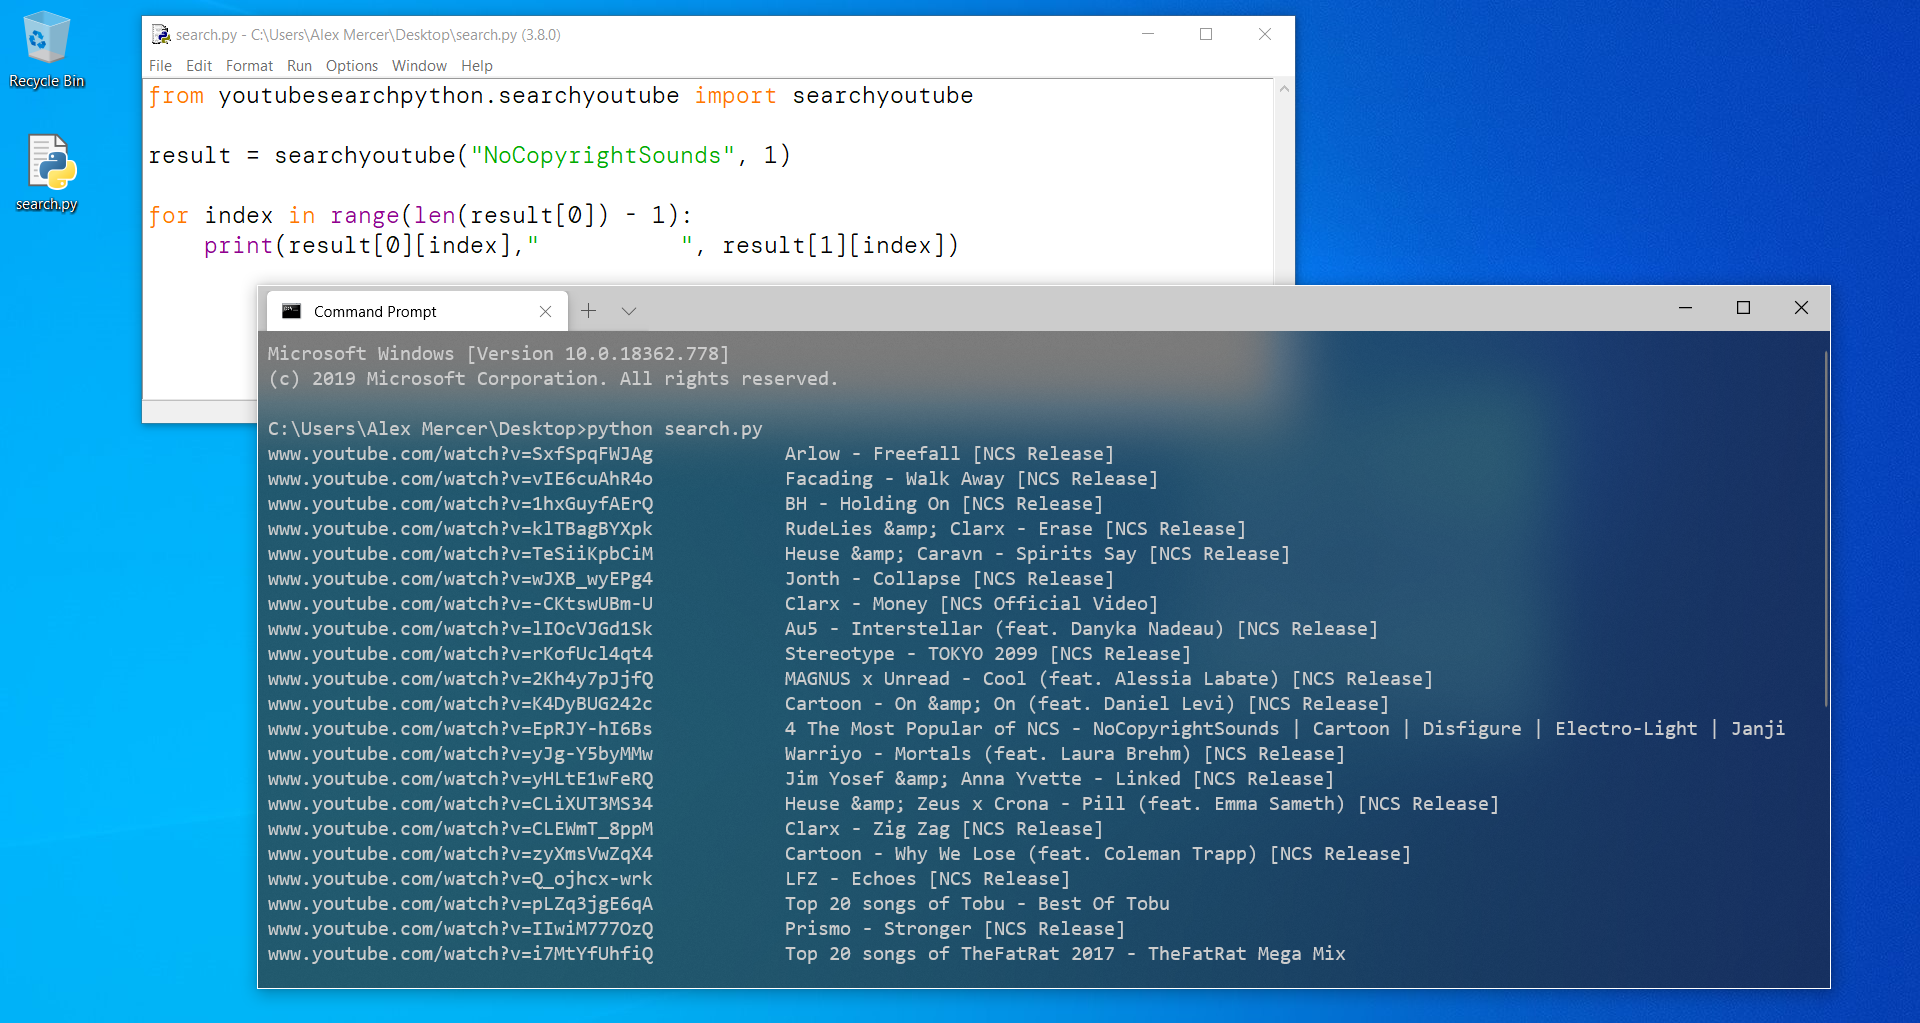
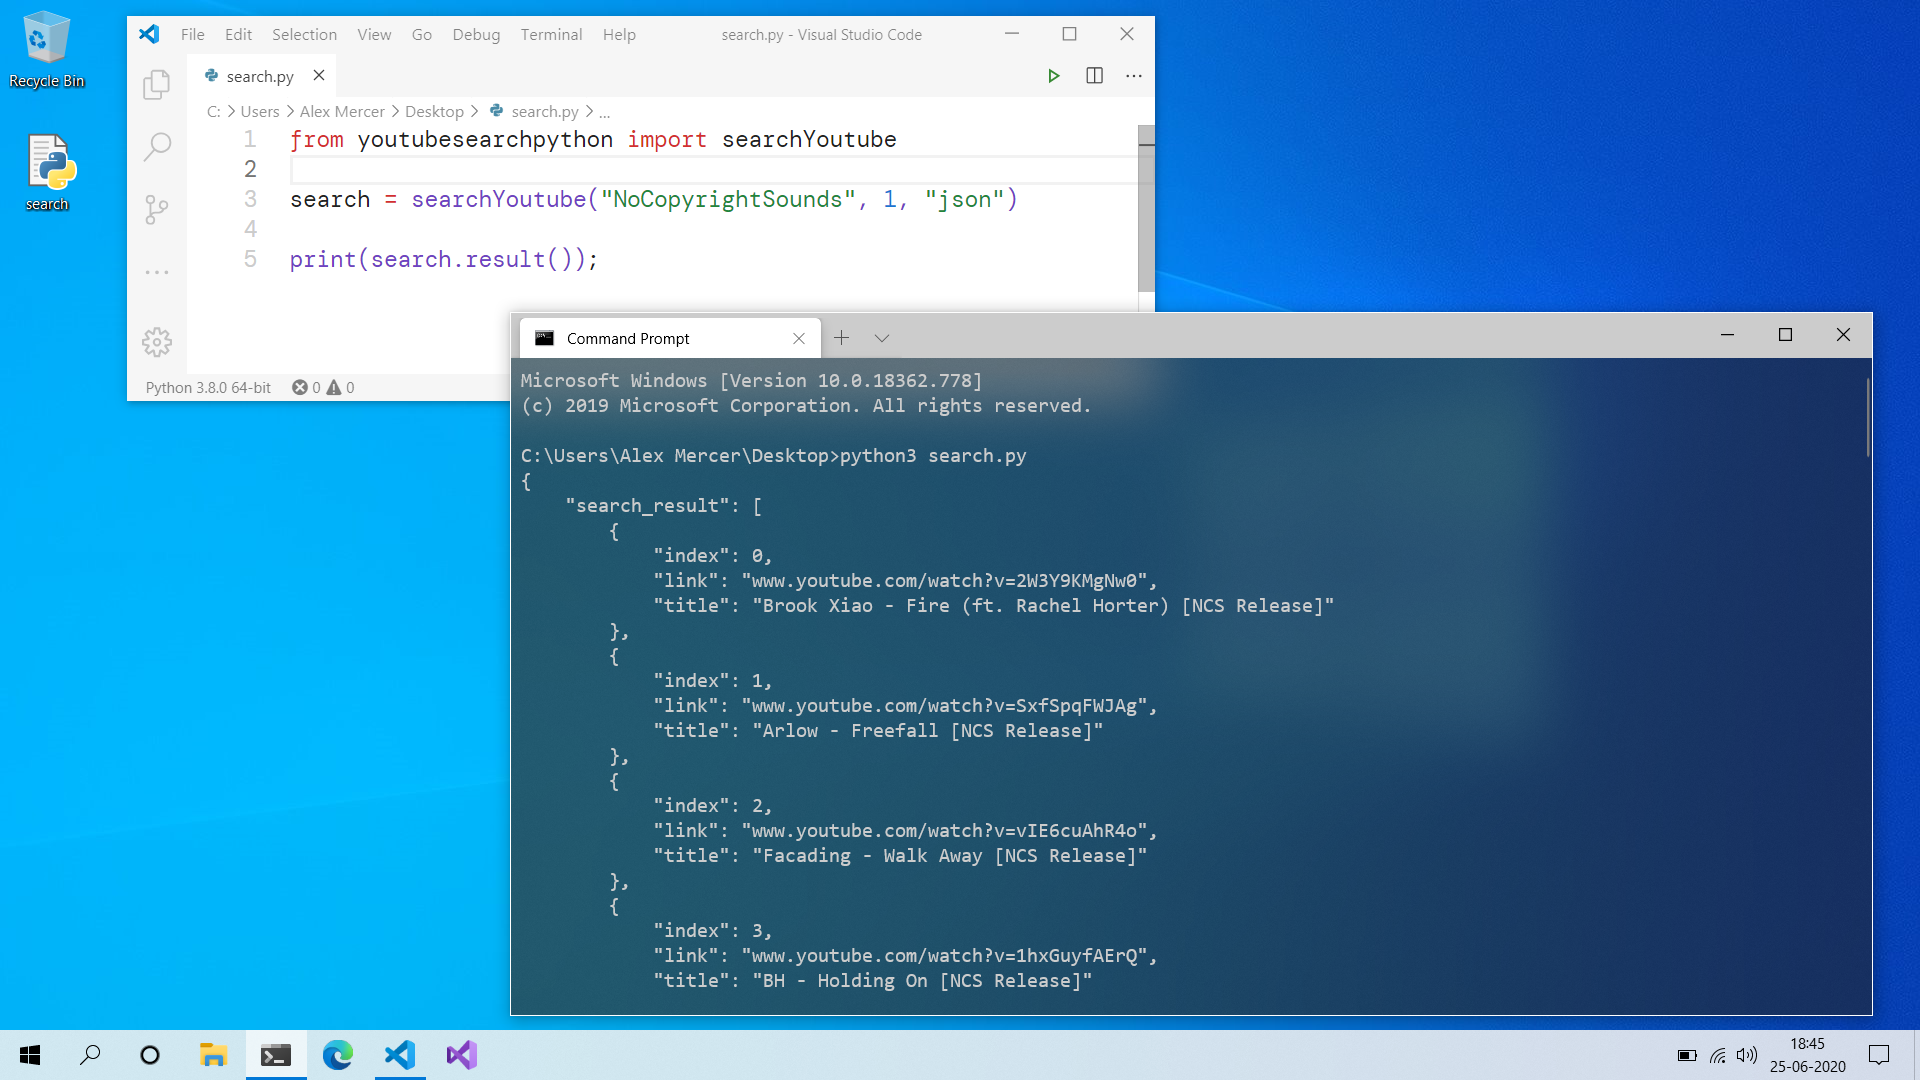
Fixed encoding, added decoding html entities, Added JSON result

diff --git a/youtubesearchpython/__init__.py b/youtubesearchpython/__init__.py
@@ -1,1 +1,86 @@
-#########https://github.com/alexmercerind#########
+import urllib.parse
+import urllib.request
+import json
+import html
+
+
+class searchYoutube:
+
+    #########https://github.com/alexmercerind#########
+
+    networkError = False
+
+    def __init__(self, keyword, offset = 1, mode = "json"):
+
+        self.keyword = keyword
+        self.offset = offset
+        self.mode = mode
+
+        self.exec()
+
+    def main(self):
+        try:
+            request = "https://www.youtube.com/results?search_query=%s&disable_polymer=1&page=%d" %(urllib.parse.quote(self.keyword), self.offset)
+            
+            page = urllib.request.urlopen(request).read().decode('utf-8')
+            page_source = page.split()
+
+            temp = 0
+
+            self.links = []
+            self.titles = []
+
+            for index in range(0, len(page_source)-1, 1):
+                element = page_source[index]
+                element_next = page_source[index+1]
+
+                if element[0:15] == 'href="/watch?v=' and len('www.youtube.com'+element[6:len(element)-1]) == 35:
+                    temp+=1
+                    if temp%2 ==0:
+                        self.links+=['www.youtube.com'+element[6:len(element)-1]]
+
+                if (element[0:23] == 'data-sessionlink="itct=') and (element_next[0:7] == 'title="'):
+                    buffer = ""
+                    init = page_source[index+1]
+                    buffer+=init
+                    sub_index = index+2
+                    end = index+22
+                    while sub_index<end:
+                        this_element = page_source[sub_index]
+                        next_element = page_source[sub_index+1]
+                        if (this_element[len(this_element)-1])== '"':
+                            if next_element == 'rel="spf-prefetch"':
+                                buffer+=(" "+this_element)
+                                self.titles.append(html.unescape(buffer[7:-1]))
+                                break
+                        else:
+                            buffer+=(" "+this_element)
+                        sub_index+=1
+
+        except:
+
+            self.networkError = True
+
+    def exec(self):
+        self.main()
+        if self.networkError:
+            self.networkError = True
+        else:
+            if len(self.links) == 0:
+                self.exec()
+
+    def result(self):
+        if self.networkError:
+            return None
+        else:
+            result = []
+            if self.mode == "json":
+                for index in range(len(self.links) - 1):
+                    thisResult = {"index": index, "link": self.links[index], "title": self.titles[index]}
+                    result+=[thisResult]
+                return json.dumps({"search_result": result}, indent=4)
+            elif self.mode == "list":
+                for index in range(len(self.links) - 1):
+                    thisResult=[index, self.links[index], self.titles[index]]
+                    result+=[thisResult]
+                return result

diff --git a/setup.py b/setup.py
@@ -5,7 +5,7 @@ with open("README.md", "r") as fh:
 
 setuptools.setup(
     name="youtube-search-python",
-    version="0.0.1",
+    version="0.0.2",
     author="Hitesh Kumar Saini",
     author_email="saini123hitesh@gmail.com",
     description="A python script to return video links and titles by searching in YouTube without Youtube Data API v3.",

diff --git a/README.md b/README.md
@@ -1,15 +1,10 @@
 # youtube-search-python
 
 
-**Return video links and titles by searching in YouTube without using YouTube Data API v3.**
+**Search videos in YouTube without using YouTube Data API v3.**
 
 
 (Made from scratch without using YouTube Data API v3 and any other third party library!)
-
-
-A small python script that will return URLs and title names of videos when entering a keyword to search in youtube.
-Feel free to use. 
-Made from scratch.
 
 
 Working as of 2020.
@@ -26,17 +21,11 @@ Working as of 2020.
 
 ```python
 
-from youtubesearchpython.searchyoutube import searchyoutube
-result = searchyoutube("SEARCH-KEYWORD", "SEARCH-OFFSET (default is 1)")
+from youtubesearchpython import searchYoutube
 
-print(result[0]) #gives video links
-print(result[1]) #gives video titles
+search = searchYoutube("NoCopyrightSounds", 1, "json")
 
-
-
-
-##########Returns a array having two sub-arrays with video titles and links##########
-##########Returns string "Network Error!" in case a network error is encountered##########
+print(search.result());
 
 ```
 
@@ -52,3 +41,198 @@ Consider starring the repo. Feel free to use.
 
 ![Image description](https://github.com/HiteshKumarSaini/youtube-search-python/blob/master/youtube-search-python.PNG)
 
+
+## :page_with_curl: Example Result
+
+
+```json
+{
+    "search_result": [
+        {
+            "index": 0,
+            "link": "www.youtube.com/watch?v=2W3Y9KMgNw0",
+            "title": "Brook Xiao - Fire (ft. Rachel Horter) [NCS Release]"
+        },
+        {
+            "index": 1,
+            "link": "www.youtube.com/watch?v=SxfSpqFWJAg",
+            "title": "Arlow - Freefall [NCS Release]"
+        },
+        {
+            "index": 2,
+            "link": "www.youtube.com/watch?v=vIE6cuAhR4o",
+            "title": "Facading - Walk Away [NCS Release]"
+        },
+        {
+            "index": 3,
+            "link": "www.youtube.com/watch?v=1hxGuyfAErQ",
+            "title": "BH - Holding On [NCS Release]"
+        },
+        {
+            "index": 4,
+            "link": "www.youtube.com/watch?v=klTBagBYXpk",
+            "title": "RudeLies & Clarx - Erase [NCS Release]"
+        },
+        {
+            "index": 5,
+            "link": "www.youtube.com/watch?v=TeSiiKpbCiM",
+            "title": "Heuse & Caravn - Spirits Say [NCS Release]"
+        },
+        {
+            "index": 6,
+            "link": "www.youtube.com/watch?v=wJXB_wyEPg4",
+            "title": "Jonth - Collapse [NCS Release]"
+        },
+        {
+            "index": 7,
+            "link": "www.youtube.com/watch?v=-CKtswUBm-U",
+            "title": "Clarx - Money [NCS Official Video]"
+        },
+        {
+            "index": 8,
+            "link": "www.youtube.com/watch?v=lIOcVJGd1Sk",
+            "title": "Au5 - Interstellar (feat. Danyka Nadeau) [NCS Release]"
+        },
+        {
+            "index": 9,
+            "link": "www.youtube.com/watch?v=rKofUcl4qt4",
+            "title": "Stereotype - TOKYO 2099 [NCS Release]"
+        },
+        {
+            "index": 10,
+            "link": "www.youtube.com/watch?v=K4DyBUG242c",
+            "title": "Cartoon - On & On (feat. Daniel Levi) [NCS Release]"
+        },
+        {
+            "index": 11,
+            "link": "www.youtube.com/watch?v=EpRJY-hI6Bs",
+            "title": "4 The Most Popular of NCS - NoCopyrightSounds | Cartoon | Disfigure | Electro-Light | Janji"
+        },
+        {
+            "index": 12,
+            "link": "www.youtube.com/watch?v=Tv6WImqSuxA",
+            "title": "JPB - High [NCS Release]"
+        },
+        {
+            "index": 13,
+            "link": "www.youtube.com/watch?v=yJg-Y5byMMw",
+            "title": "Warriyo - Mortals (feat. Laura Brehm) [NCS Release]"
+        },
+        {
+            "index": 14,
+            "link": "www.youtube.com/watch?v=f2xGxd9xPYA",
+            "title": "JJD - Adventure [NCS Release]"
+        },
+        {
+            "index": 15,
+            "link": "www.youtube.com/watch?v=XEymPGxopmg",
+            "title": "Barren Gates & M.I.M.E - Enslaved [NCS Release]"
+        },
+        {
+            "index": 16,
+            "link": "www.youtube.com/watch?v=gEbRqpFkTBk",
+            "title": "Zaza - Be Together [NCS Release]"
+        },
+        {
+            "index": 17,
+            "link": "www.youtube.com/watch?v=zyXmsVwZqX4",
+            "title": "Cartoon - Why We Lose (feat. Coleman Trapp) [NCS Release]"
+        },
+        {
+            "index": 18,
+            "link": "www.youtube.com/watch?v=CLEWmT_8ppM",
+            "title": "Clarx - Zig Zag [NCS Release]"
+        },
+        {
+            "index": 19,
+            "link": "www.youtube.com/watch?v=_XspQUK22-U",
+            "title": "Diamond Eyes - Everything [NCS Release]"
+        },
+        {
+            "index": 20,
+            "link": "www.youtube.com/watch?v=u1I9ITfzqFs",
+            "title": "Diviners - Savannah (feat. Philly K) [NCS Release]"
+        },
+        {
+            "index": 21,
+            "link": "www.youtube.com/watch?v=Q_ojhcx-wrk",
+            "title": "LFZ - Echoes [NCS Release]"
+        },
+        {
+            "index": 22,
+            "link": "www.youtube.com/watch?v=gDwVGS75sUA",
+            "title": "Lemon Fight - Stronger (feat. Jessica Reynoso) [NCS Release]"
+        },
+        {
+            "index": 23,
+            "link": "www.youtube.com/watch?v=i7MtYfUhfiQ",
+            "title": "Top 20 songs of TheFatRat 2017 - TheFatRat Mega Mix"
+        },
+        {
+            "index": 24,
+            "link": "www.youtube.com/watch?v=LHvYrn3FAgI",
+            "title": "Unknown Brain - Superhero (feat. Chris Linton) [NCS Release]"
+        },
+        {
+            "index": 25,
+            "link": "www.youtube.com/watch?v=yHLtE1wFeRQ",
+            "title": "Jim Yosef & Anna Yvette - Linked [NCS Release]"
+        },
+        {
+            "index": 26,
+            "link": "www.youtube.com/watch?v=ABuNwLP-z9o",
+            "title": "Jarico - Landscape [NCS BEST OF]"
+        },
+        {
+            "index": 27,
+            "link": "www.youtube.com/watch?v=Srqs4CitU2U",
+            "title": "Valence - Infinite [NCS Release]"
+        },
+        {
+            "index": 28,
+            "link": "www.youtube.com/watch?v=QHoqD47gQG8",
+            "title": "Top 30 NoCopyrightSounds | Best of NCS | 2H NoCopyrightSounds | NCS : The Best of all time"
+        },
+        {
+            "index": 29,
+            "link": "www.youtube.com/watch?v=HPhHr6h4Qjc",
+            "title": "Lost Sky - Fearless pt.II (feat. Chris Linton) [NCS Release]"
+        },
+        {
+            "index": 30,
+            "link": "www.youtube.com/watch?v=S19UcWdOA-I",
+            "title": "Culture Code - Make Me Move (feat. Karra) [NCS Release]"
+        },
+        {
+            "index": 31,
+            "link": "www.youtube.com/watch?v=vBGiFtb8Rpw",
+            "title": "Alan Walker - Fade [NCS Release]"
+        },
+        {
+            "index": 32,
+            "link": "www.youtube.com/watch?v=bM7SZ5SBzyY",
+            "title": "Aero Chord feat. DDARK - Shootin Stars [NCS Release]"
+        },
+        {
+            "index": 33,
+            "link": "www.youtube.com/watch?v=PTF5xgT-pm8",
+            "title": "Elektronomia - Sky High [NCS Release]"
+        },
+        {
+            "index": 34,
+            "link": "www.youtube.com/watch?v=TW9d8vYrVFQ",
+            "title": "NCS 24/7 Gaming Music Livestream"
+        },
+        {
+            "index": 35,
+            "link": "www.youtube.com/watch?v=-Mypt378fkc",
+            "title": "Axol x Alex Skrindo - You [NCS Release]"
+        },
+        {
+            "index": 36,
+            "link": "www.youtube.com/watch?v=sA_p0rQtDXE",
+            "title": "Top 20 Most Popular Songs by NCS | Best of NCS | Most Viewed Songs"
+        }
+    ]
+}
+```
